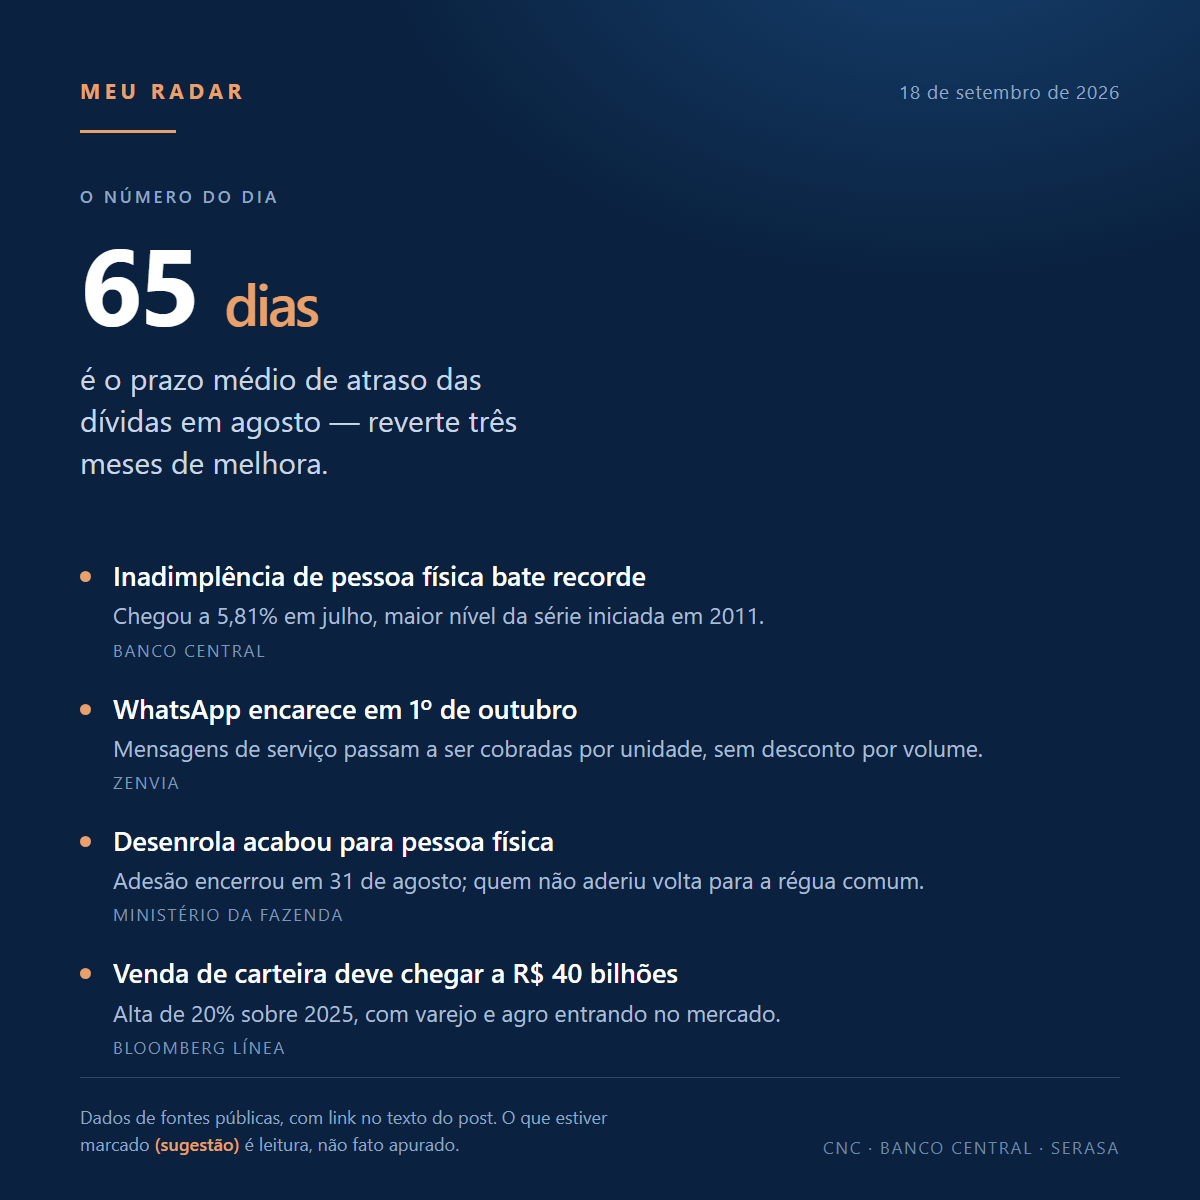
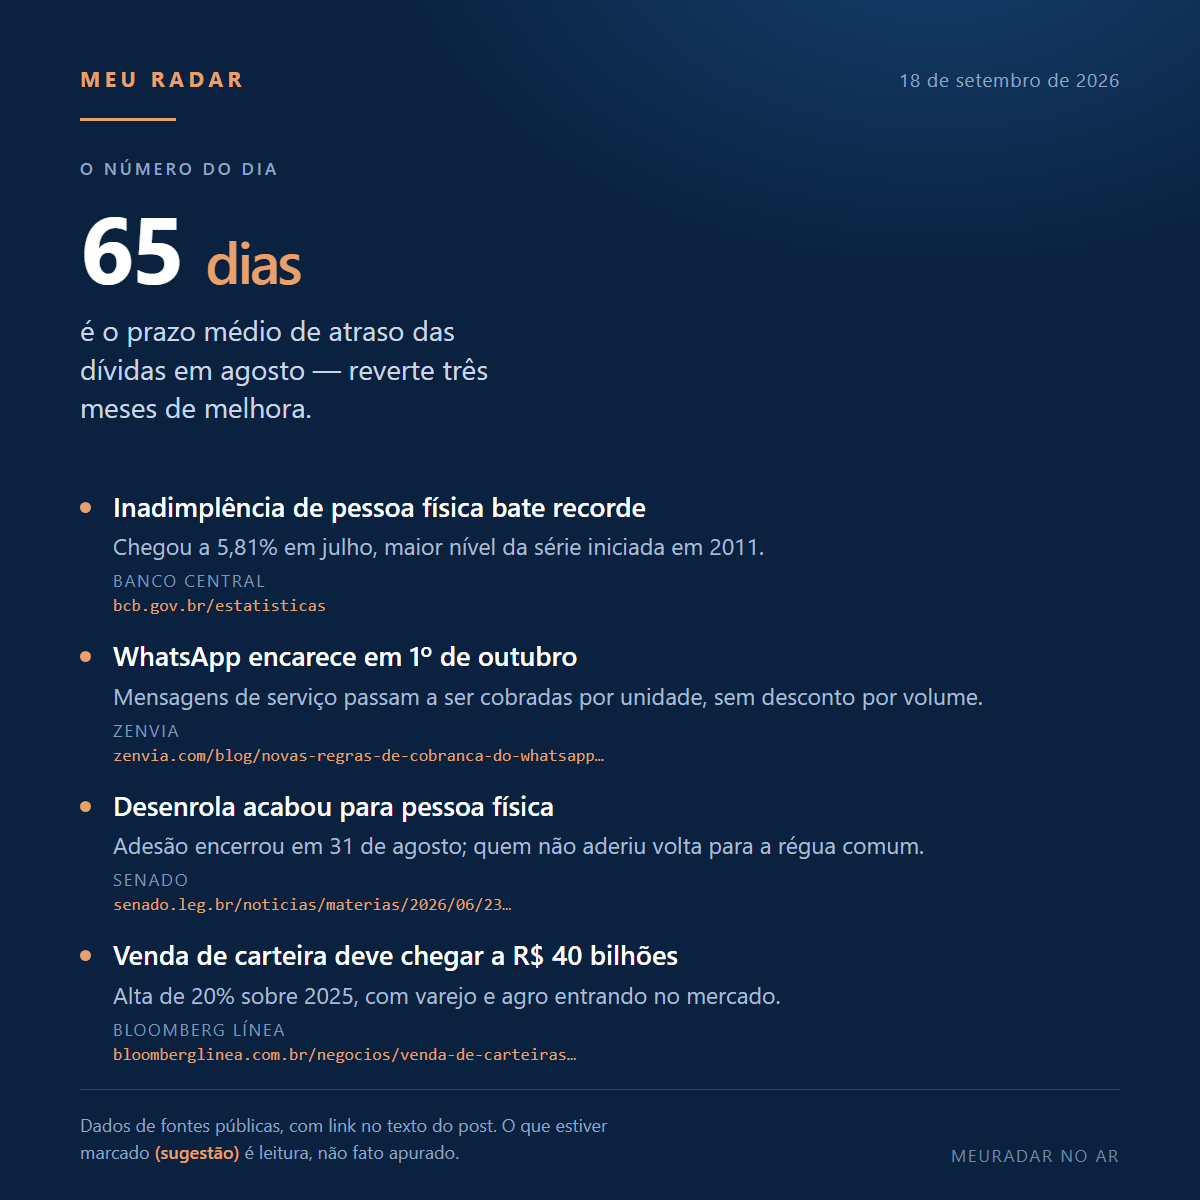
Linha de link sob cada fonte no cartaz

diff --git a/modelo-cartaz.html b/modelo-cartaz.html
@@ -12,7 +12,7 @@
     color: #F2F5F9;
     font-family: "Segoe UI", system-ui, -apple-system, sans-serif;
     display: flex; flex-direction: column;
-    padding: 76px 80px 0;
+    padding: 64px 80px 0;
     overflow: hidden;
   }
 
@@ -28,24 +28,24 @@
   .regua { height: 3px; background: #E9A06B; width: 96px; margin: 26px 0 0; }
 
   /* número do dia */
-  .bloco-numero { margin-top: 52px; }
+  .bloco-numero { margin-top: 36px; }
   .rotulo {
     font-size: 17px; font-weight: 600; letter-spacing: .18em; text-transform: uppercase;
     color: #8FA6C4; margin-bottom: 20px;
   }
   .valor {
-    font-size: 108px; font-weight: 700; line-height: 1; letter-spacing: -.03em;
+    font-size: 94px; font-weight: 700; line-height: 1; letter-spacing: -.03em;
     color: #FFFFFF;
   }
   .valor .unidade { font-size: 58px; font-weight: 600; color: #E9A06B; }
   .contexto {
-    font-size: 30px; line-height: 1.4; color: #C9D6E6; margin-top: 22px; max-width: 30ch;
+    font-size: 28px; line-height: 1.38; color: #C9D6E6; margin-top: 18px; max-width: 30ch;
   }
 
   /* itens */
   .itens {
-    margin-top: 56px; flex: 1;
-    display: flex; flex-direction: column; justify-content: center; gap: 30px;
+    margin-top: 38px; flex: 1;
+    display: flex; flex-direction: column; justify-content: center; gap: 22px;
   }
   .item { display: flex; gap: 22px; align-items: flex-start; }
   .bolinha {
@@ -63,10 +63,15 @@
     font-size: 17px; letter-spacing: .1em; text-transform: uppercase;
     color: #7E95B4; margin-top: 7px;
   }
+  .link {
+    font-size: 17px; line-height: 1.3; color: #E9A06B; margin-top: 3px;
+    font-family: Consolas, "Courier New", monospace; letter-spacing: -.005em;
+    word-break: break-all;
+  }
 
   /* rodapé */
   .rodape {
-    margin-top: auto; padding: 26px 0 42px;
+    margin-top: auto; padding: 22px 0 34px;
     border-top: 1px solid rgba(143,166,196,.28);
     display: flex; justify-content: space-between; align-items: flex-end; gap: 32px;
   }
